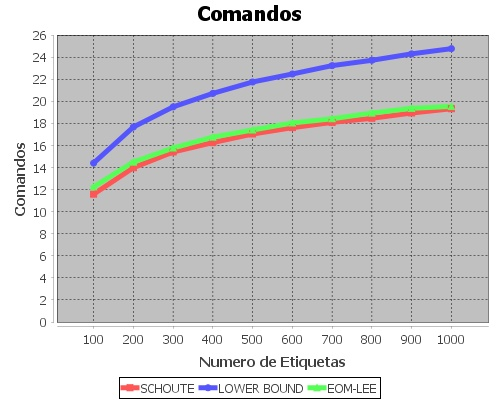
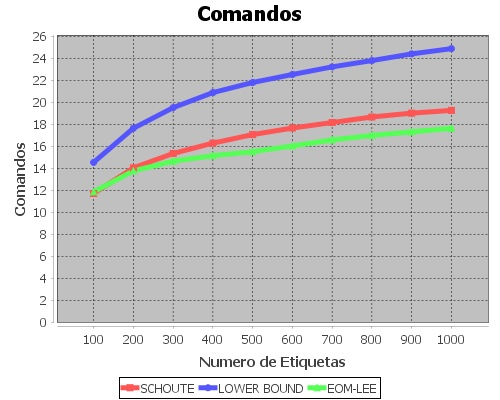
Eom-Lee Funcional

diff --git a/src/back/eomlee.java b/src/back/eomlee.java
@@ -1,6 +1,7 @@
 package back;
 
 import java.lang.Math;
+import java.math.BigDecimal;
 
 /**
  * Estimador Lower Bound
@@ -8,7 +9,6 @@ import java.lang.Math;
 public class eomlee implements Estimator {
 
     public  double estimate (double collision_slots, double empty_slots, double successful_slots, double current_size, int[] frame){
-    	double L = current_size;
     	double gamak;
     	double gamak_minus_1;
     	double betak;
@@ -18,11 +18,11 @@ public class eomlee implements Estimator {
     		
     		gamak_minus_1 = gamak;
     		
-    		betak = betak(current_size,successful_slots,collision_slots,gamak_minus_1);
-    		gamak = gamak(current_size,successful_slots, collision_slots, betak);
+    		betak = betak(current_size, successful_slots, collision_slots, gamak_minus_1);
+    		gamak = gamak(current_size, successful_slots, collision_slots, betak);
     		    		
     		
-    	} while (Math.abs(gamak_minus_1 - gamak) < 0.0001);
+    	} while (Math.abs(gamak_minus_1 - gamak) > 0.0001);
     	
     	
     	//System.out.println("Gamak: "+gamak);
@@ -34,13 +34,13 @@ public class eomlee implements Estimator {
     }
     
     public double betak(double current_frame,double success_slot, double collision_slot, double gamak_minus_1){
-    	return current_frame / (gamak_minus_1 * collision_slot + success_slot);
+    	return current_frame/(gamak_minus_1*collision_slot + success_slot);	
+    	
     }
     
     public double gamak(double current_frame,double success_slot, double collision_slot, double betak){
-//    	double betak = betak(current_frame, success_slot, collision_slot, gamak_minus_1);
-    	return (1 - Math.exp(-1/betak)) / 
-    			( betak * ( 1 - ( 1 + ( 1 / betak ) ) * Math.exp(-1/betak) ) );
+    	double betaInvert = Math.exp(-1/betak); 
+    	return (1-betaInvert)/(betak*(1-(1+(1/betak))*betaInvert));
     }
     
 

diff --git a/src/back/Simulator.java b/src/back/Simulator.java
@@ -33,7 +33,7 @@ public class Simulator {
 		this.frame_size = frame_size;
 		this.estimator = estimator;
 		this.pow2frame = pow2frame;
-		//this.ng = ng;
+		this.ng = ng;
 	}
 
 	// simula uma única leitura de um determinado número de tags.
@@ -64,6 +64,7 @@ public class Simulator {
 			
 			desperate.add(frame);
 			
+			sum_slots+= current_size;
 			//	System.out.println(current_size);
 			// Contagem de slots com colisao, sucesso e vazios.
 			collision_slots = empty_slots = successful_slots = 0;
@@ -83,7 +84,7 @@ public class Simulator {
 		long endTime = System.nanoTime();
 		long duration = (endTime - startTime);
 		
-		desperateCounting(desperate);
+		//desperateCounting(desperate);
 
 		graph_information.time = duration/1e6;
 		graph_information.avg_colli = sum_colli;
@@ -158,6 +159,7 @@ public class Simulator {
 		{
 			if(frame[i]>1) {
 				collision_slots++;
+				sum_colli++;
 			}
 			if(frame[i]==1) {
 				tags--;
@@ -165,6 +167,7 @@ public class Simulator {
 			} 
 			if(frame[i]==0) {
 				empty_slots++;
+				sum_empty++;
 			}
 		}
 	}

diff --git a/src/front/Experiments.java b/src/front/Experiments.java
@@ -25,7 +25,7 @@ public class Experiments {
 	public static boolean lowerboundEnabled = true;
 	public static boolean ILCMEnabled = false;
 	
-	public static Random ng;
+	public static Random ng = new Random();
 
 	
 	//Teste gerais//
